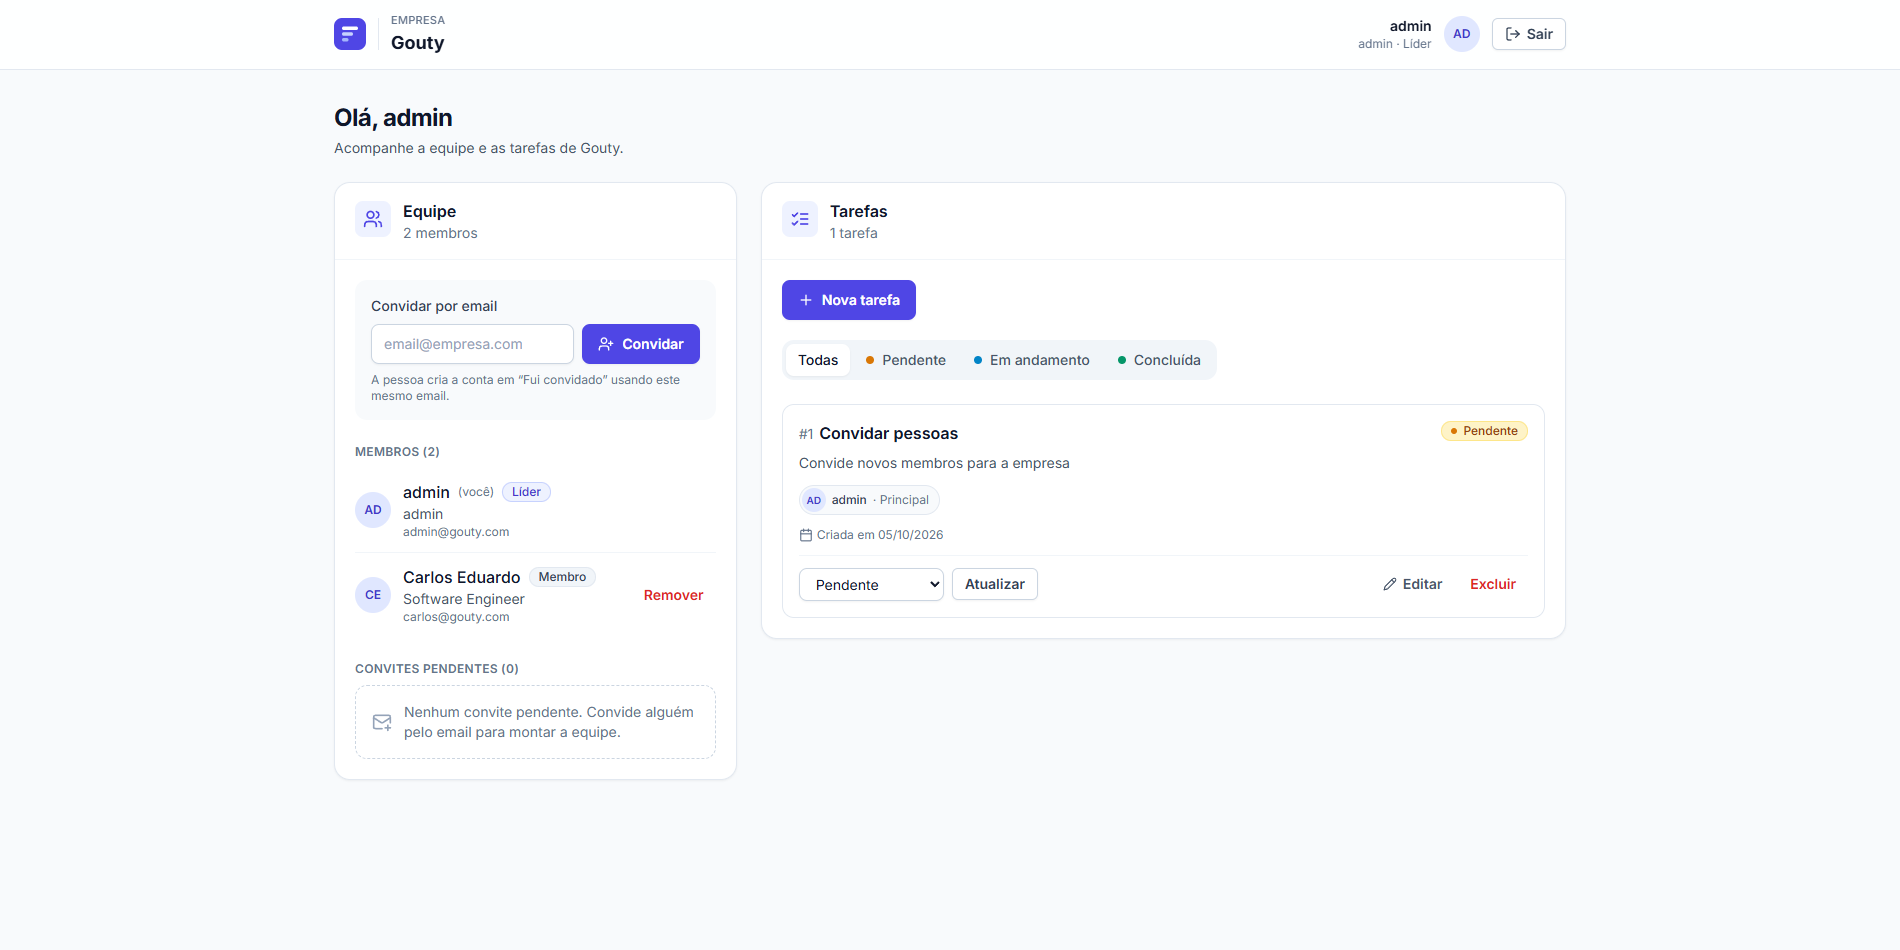
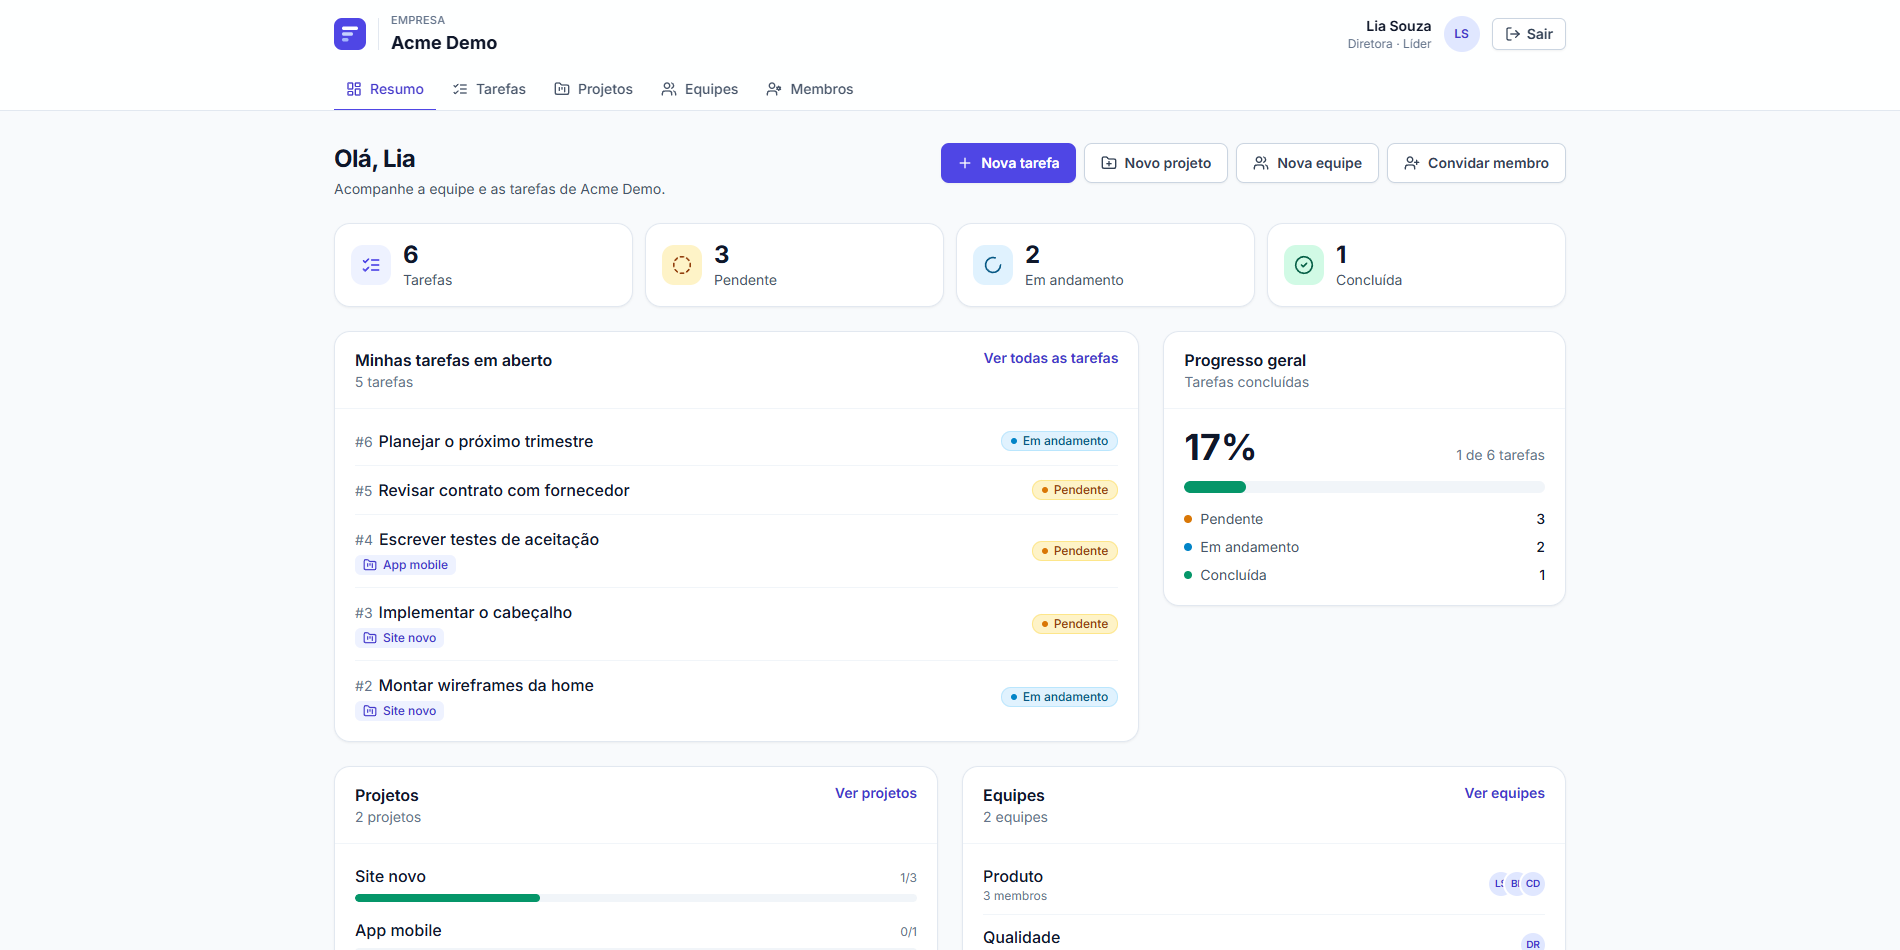
Atualiza imagens do painel do Organ com Resumo, Kanban e Membros

diff --git a/projetos/organ.html b/projetos/organ.html
@@ -72,13 +72,13 @@
                     <img src="../assets/images/projetos/organ/capa.png" alt="Tela inicial do Organ">
                 </div>
                 <div class="project-gallery__slide" data-slide="1">
-                    <img src="../assets/images/projetos/organ/01.png" alt="Painel do Organ com equipe e tarefas">
+                    <img src="../assets/images/projetos/organ/01.png" alt="Resumo do painel do Organ">
                 </div>
                 <div class="project-gallery__slide" data-slide="2">
-                    <img src="../assets/images/projetos/organ/02.png" alt="Recursos do Organ">
+                    <img src="../assets/images/projetos/organ/02.png" alt="Tarefas do Organ em Kanban">
                 </div>
                 <div class="project-gallery__slide" data-slide="3">
-                    <img src="../assets/images/projetos/organ/03.png" alt="Tela de criação de empresa do Organ">
+                    <img src="../assets/images/projetos/organ/03.png" alt="Membros e convites do Organ">
                 </div>
                 <span class="project-gallery__label" id="galleryLabel">Capa</span>
             </div>
